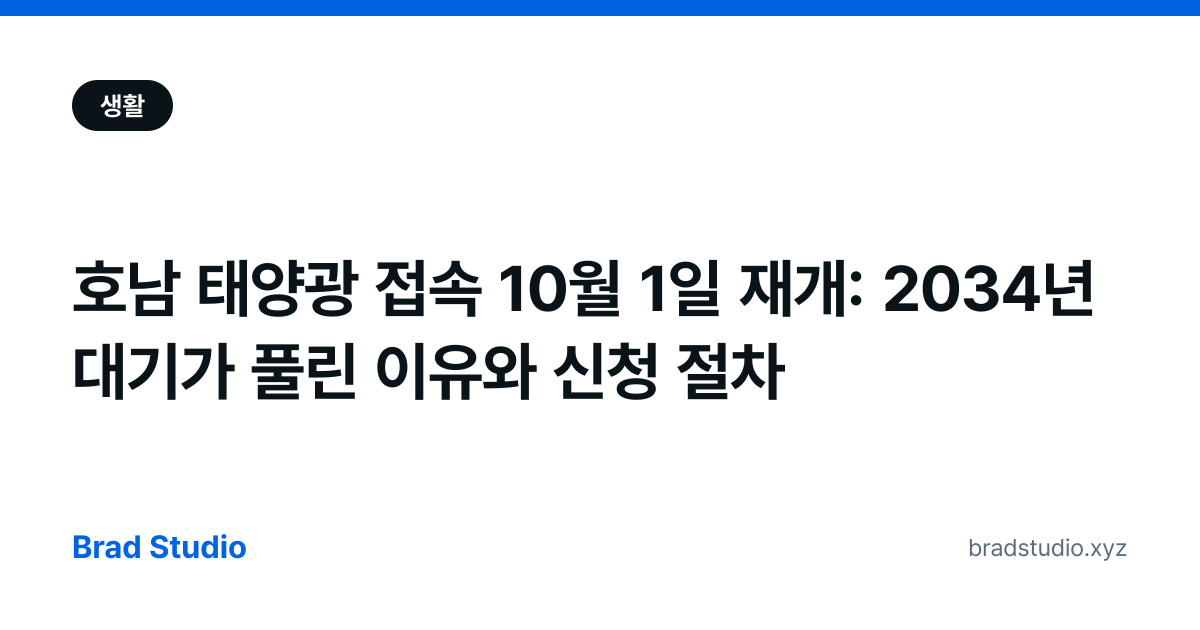
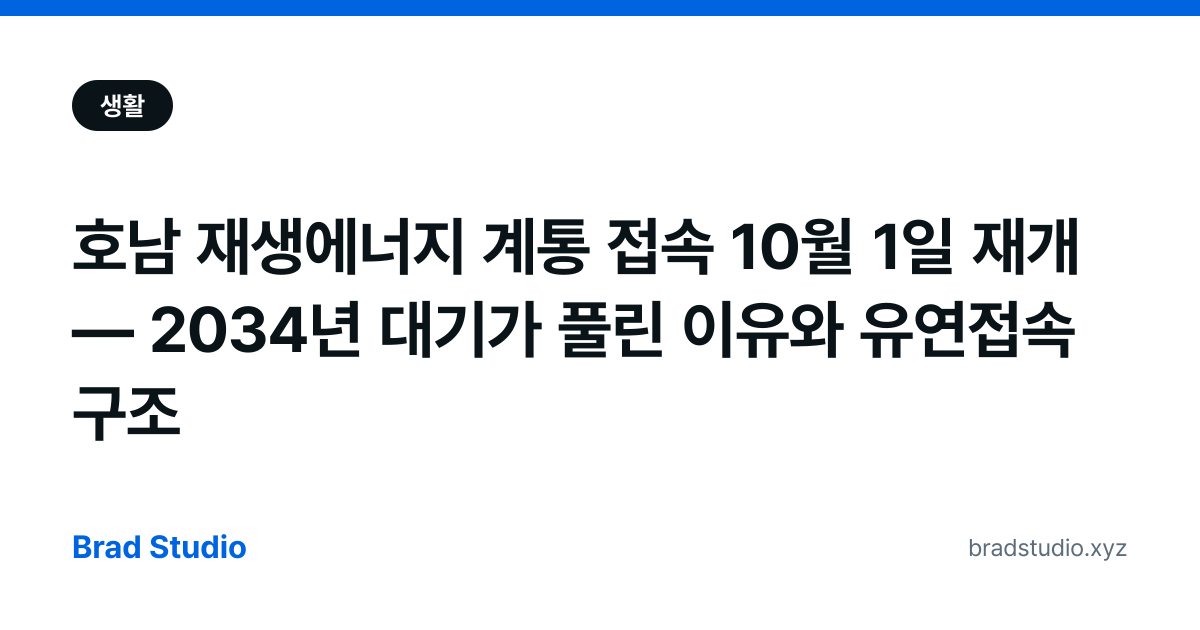
10/6 발행: 기록의 역사 3편(양피지), 호남 재생에너지 계통 접속 재개(초안 팩트체크 후 수정)
- 호남: 87곳 중 46곳, 유연접속 14→16MW·50→60MW(2.6GW), ESS 1.6GW, 신규 접수 2027년 1월 반영
  미확인 수치 삭제(41곳 2028~2030 단계 개방, ESS 4MW당 5.7MW, 전력거래소 접속 창구)
- 초안 보류: 미국 30년물 금리(고용 쇼크 이후 내용 낡음), 김도영 41홈런(9/29 기준, 최신 기록 미확인)

Claude-Session: https://claude.ai/code/session_016W68o6eYMen6oLnjrGLJi9

Changed region(s): [[0.0617, 0.3317, 0.925, 0.6937]]

diff --git a/src/content/blog/honam-solar-grid-access-2026.md b/src/content/blog/honam-solar-grid-access-2026.md
@@ -1,10 +1,10 @@
 ---
 contentId: "bs-20261006-001"
-title: '호남 태양광 접속 10월 1일 재개: 2034년 대기가 풀린 이유와 신청 절차'
-description: '2034년 이후까지 막혔던 호남 재생에너지 계통 접속이 2026년 10월 1일 재개됐습니다. 계통관리변전소 지정 해제 배경, 변전소 87곳 접속 가능 여부 일람, 유연접속 제도 신청 절차를 정리했습니다.'
+title: '호남 재생에너지 계통 접속 10월 1일 재개 — 2034년 대기가 풀린 이유와 유연접속 구조'
+description: '2034년 이후까지 막혔던 호남 재생에너지 계통 접속이 10월 1일 계통관리변전소 지정 해제로 다시 열렸습니다. 변전소 87곳 중 여유가 있는 46곳, 배전선로 한도 14→16MW·변압기 50→60MW로 늘리는 유연접속, ESS로 늘어나는 수용량과 신규 사업 접수 일정을 정리했습니다.'
 pubDate: 2026-10-06
 
-status: draft
+status: published
 
 category: living
 tags:
@@ -40,8 +40,11 @@ sources:
   - title: '호남 전략망 64GW로 늘린다 — 뉴스토마토'
     url: 'https://newstomato.com/ReadNews.aspx?no=1315112'
     accessedAt: 2026-10-06
-  - title: '기후에너지환경부 보도자료 — 전력망 확충 및 유연접속 시행'
-    url: 'https://www.mcee.go.kr'
+  - title: '막혔던 호남 재생에너지 접속 뚫린다…10월1일 계통관리변전소 해제 — 파이낸셜뉴스'
+    url: 'https://www.fnnews.com/news/202609291254473924'
+    accessedAt: 2026-10-06
+  - title: 'ESS 늘리고 재생e 유연접속 허용…호남 전력포화 내년부터 풀린다 — 머니투데이'
+    url: 'https://www.mt.co.kr/economy/2026/09/29/2026092912095174595'
     accessedAt: 2026-10-06
 
 internalLinks:
@@ -56,9 +59,9 @@ faq:
   - question: '계통관리변전소 지정이란 무엇이고, 왜 접속이 막혔나요?'
     answer: '계통관리변전소는 전력망 용량 초과가 우려되는 변전소에 정부가 신규 발전설비 접속을 제한하는 제도입니다. 호남은 태양광 보급 속도에 비해 송·배전망 확충이 더뎌 46개 변전소가 2034년 이후에야 접속이 가능하다는 통보를 받았습니다. 이번 해제는 망 증설 계획 확정과 유연접속 도입으로 용량 여유가 생겼다는 정부 판단에 따른 것입니다.'
   - question: '유연접속이란 무엇인가요?'
-    answer: '유연접속은 배전선로에 ESS(에너지저장장치)를 설치해 피크 시 전력 흡수·완충 기능을 추가하고, 그만큼 추가 발전설비를 계통에 연결할 수 있게 하는 방식입니다. 기존 송·배전망을 새로 짓지 않고도 선로 용량을 늘리는 효과가 있습니다. 배전선로 1곳에 ESS 4MW(20MWh)를 설치하면 태양광 5.7MW를 추가 연계할 수 있습니다.'
+    answer: '전력이 몰리는 일부 시간에 발전 출력을 조절하는 조건으로 선로 한도를 넘는 접속을 허용하는 방식입니다. 배전선로 태양광 한도는 14MW에서 16MW로, 변압기는 50MW에서 60MW로 높아지며, 정부는 이 방식으로 호남에서 태양광 2.6GW를 더 받을 수 있다고 봤습니다.'
   - question: '10월 1일 이후 호남에서 태양광 접속 신청을 바로 할 수 있나요?'
-    answer: '변전소 87곳 가운데 46곳은 즉시 신규 접속이 가능합니다. 나머지 41곳은 ESS 설치와 변전소 신설 일정에 맞춰 2028~2030년 단계적으로 접속이 열립니다. 신청은 한국전력 배전처 또는 전력거래소 계통접속 창구를 통해 진행하며, 구체적인 가능 변전소 목록은 기후에너지환경부 및 한전 공식 채널에서 확인할 수 있습니다.'
+    answer: '호남권 변전소 87곳 가운데 여유가 있는 46곳은 신규 사업이 비교적 빠르게 들어갈 수 있습니다. 신규 재생에너지 사업 접수는 접속 제도 개편을 거쳐 2027년 1월부터 재개될 예정이므로, 공고가 나오면 한전 지사와 기후에너지환경부 안내를 확인하세요.'
   - question: '2030년까지 호남 송전 용량이 얼마나 늘어나나요?'
     answer: '정부 계획상 호남 지역 송전 수용량은 현재 37GW에서 2030년까지 64GW로 확충됩니다. 배전 수용량도 18GW에서 30GW로 늘어납니다. 전국 기준으로는 송전 119GW → 171GW, 배전 84GW → 110GW로 확대할 계획입니다.'
 
@@ -68,9 +71,9 @@ seo:
 
 ## 결론부터: 2034년 대기가 풀렸다
 
-호남 지역 태양광 사업자들이 2034년 이후에야 받을 수 있다는 통보를 받았던 계통 접속이 2026년 10월 1일부터 다시 열렸다. 기후에너지환경부가 계통관리변전소 지정을 해제하고 유연접속 제도를 동시 시행하면서다.
+호남 지역 재생에너지 사업자들이 2034년 이후에야 가능하다는 통보를 받았던 계통 접속이 2026년 10월 1일 다시 열렸다. 기후에너지환경부가 호남권 계통관리변전소 지정을 해제하고 유연접속 제도를 함께 도입했다.
 
-지역 변전소 87곳 가운데 **46곳은 즉시 신규 접속 신청**이 가능하다. 나머지 41곳은 ESS 설치·변전소 신설 일정에 맞춰 2028~2030년 단계적으로 풀릴 예정이다.
+호남권 변전소 87곳 가운데 여유가 있는 **46곳**은 신규 사업이 비교적 빠르게 들어갈 수 있다. 다만 신규 재생에너지 사업 접수는 접속 제도 개편을 거쳐 **2027년 1월부터** 재개될 예정이라, 당장 신청서를 내는 단계는 아니다.
 
 ---
 
@@ -82,35 +85,23 @@ seo:
 
 **첫째, 망 확충 계획이 확정됐다.** 호남 지역 송전 수용량 목표가 37GW→64GW로 늘어났고, 배전도 18GW→30GW로 확충 계획이 굳어졌다. 전국 기준으로는 송전 119GW → 171GW, 배전 84GW → 110GW다.
 
-**둘째, 유연접속 제도가 도입됐다.** 배전선로에 ESS(에너지저장장치)를 설치해 기존 선로에서 더 많은 발전설비를 받아낼 수 있게 됐다. ESS 4MW(20MWh)를 배전선로 1곳에 설치하면 태양광 5.7MW를 추가 연계한다. 이 방식으로 호남에서 태양광 2.6GW를 추가 접속할 수 있다.
+**둘째, 유연접속 제도가 도입됐다.** 전력이 몰리는 일부 시간에 출력을 조절하는 조건으로 선로 한도를 넘어서는 접속을 허용하는 방식이다. 배전선로의 태양광 접속 한도는 14MW에서 16MW로, 변압기는 50MW에서 60MW로 높아진다. 정부는 이 방식으로 호남에서 태양광 2.6GW를 더 받을 수 있다고 봤다.
+
+**셋째, ESS(에너지저장장치)를 늘린다.** 포화된 변전소 등에 ESS를 설치해 호남에서 태양광 1.6GW, 전국 포화 지역 배전망에서 3GW를 2030년까지 추가 접속시키는 계획이다.
 
 ---
 
-## 변전소별 접속 가능 시기 요약
+## 사업자가 확인할 것
 
-| 구분 | 변전소 수 | 접속 가능 시기 |
-|---|---|---|
-| 즉시 개방 | 46곳 | 2026년 10월 1일 이후 신청 가능 |
-| 단계적 개방 | 41곳 | 2028~2030년 (ESS 설치·변전소 신설 후) |
-| 합계 | 87곳 | — |
+| 항목 | 내용 |
+|---|---|
+| 접속 여유 변전소 | 호남권 87곳 중 46곳 |
+| 유연접속 한도 | 배전선로 14→16MW, 변압기 50→60MW |
+| 추가 수용 (유연접속) | 호남 태양광 2.6GW |
+| 추가 수용 (ESS) | 호남 1.6GW, 전국 포화 지역 3GW (2030년까지) |
+| 신규 사업 접수 | 2027년 1월 재개 예정 |
 
-구체적인 변전소 목록과 신청 가능 여부는 한전 배전처 또는 기후에너지환경부 공식 채널에서 확인해야 한다.
-
----
-
-## 유연접속 제도 신청 절차
-
-기존 계통 접속 절차에서 유연접속 항목이 추가됐다.
-
-1. **사전 상담** — 한전 지역본부 배전처에 프로젝트 위치·규모 등록
-2. **유연접속 대상 여부 확인** — 해당 배전선로 ESS 연계 가능 여부 조회
-3. **접속 신청서 제출** — 설계 도서 포함
-4. **ESS 설치 협의** — ESS 소유·운영 주체, 비용 분담 조건 협의
-5. **접속 계약 체결** — 전력거래소와 계통접속 계약 완료 후 공사 착수
-
-ESS 소유·운영 비용 분담 조건은 사업 규모와 선로 상황에 따라 다르므로, 한전 배전처와 사전 협의가 필수다.
-
----
+변전소별 여유 용량과 신청 방법은 개편된 접속 제도 공고에서 확정된다. 사업 예정지가 있다면 지금은 해당 지역 한전 지사에 예정지 변전소가 46곳에 드는지, 유연접속 조건(출력 제한 시간)이 사업성에 어떤 영향을 주는지부터 확인하는 단계다.
 
 ## 2030년 재생에너지 100GW 목표와의 연결
 
@@ -118,13 +109,13 @@ ESS 소유·운영 비용 분담 조건은 사업 규모와 선로 상황에 따
 
 계통 접속이 막힌 상태에서는 설치 허가를 받더라도 전력망에 연결하지 못해 사실상 사업이 중단되는 경우가 잦았다. 이번 해제로 장기 대기 상태였던 사업들이 일부 재개될 것으로 예상된다.
 
-전기요금 누진 구간이나 전기 사용량 계산이 궁금하다면 [전기요금 누진제 완전 정복](/blog/electricity-progressive-tier-guide-2026/)을 참고할 수 있다.
+전기요금 누진 구간이나 전기 사용량 계산이 궁금하다면 [누진 구간별 전기요금표](/blog/electricity-progressive-tier-guide-2026/)을 참고할 수 있다.
 
 ---
 
 ## 마무리
 
 - 호남 계통관리변전소 지정이 2026년 10월 1일 해제됐다.
-- 변전소 87곳 중 46곳은 즉시 접속 신청 가능, 41곳은 2028~2030년 단계적 개방.
-- 유연접속(배전선로 ESS 설치)으로 태양광 2.6GW 추가 수용.
-- 접속 가능 여부와 신청 절차는 [기후에너지환경부](https://www.mcee.go.kr) 또는 한전 배전처에서 확인하라.
+- 변전소 87곳 중 여유가 있는 46곳부터 신규 사업 진입이 빨라진다.
+- 유연접속(선로 한도 상향)으로 2.6GW, ESS로 1.6GW를 호남에서 추가 수용한다.
+- 신규 사업 접수는 2027년 1월 재개 예정이다. 공고가 나오면 [기후에너지환경부](https://www.mcee.go.kr)와 한전 지사 안내를 확인하자.

diff --git a/src/content/blog/record-history-03-parchment.md b/src/content/blog/record-history-03-parchment.md
@@ -1,0 +1,108 @@
+---
+contentId: "bs-20261006-004"
+title: '종이 이전의 책을 만든 재료, 양피지는 왜 오래 사용되었을까'
+description: '동물 가죽을 얇게 펴 만든 양피지는 파피루스보다 비싸고 만들기 번거로웠지만 천 년 넘게 유럽의 책을 책임졌습니다. 석회에 담그고 틀에 당겨 말리는 제작 과정, 양면에 쓰고 접을 수 있어 가능해진 코덱스 형태의 책, 긁어내고 다시 쓴 팔림프세스트까지 정리했습니다. 메모와 기록 도구의 역사 3편.'
+pubDate: 2026-10-06
+thumbnail:
+  url: 'https://images.unsplash.com/photo-1602660187275-7275b639d7ea?crop=entropy&cs=tinysrgb&fit=max&fm=jpg&q=80&w=1080'
+  alt: '오래된 책 제본에 다시 쓰인 양피지 조각'
+  creditName: 'Boudewijn Huysmans'
+  creditUrl: 'https://unsplash.com/@boudewijn_huysmans'
+
+status: published
+
+category: history
+series:
+  id: record-history
+  order: 3
+tags:
+  - '기록의 역사'
+  - '양피지'
+  - '코덱스'
+  - '중세 필사본'
+
+primaryKeyword: '양피지'
+secondaryKeywords:
+  - '양피지 만드는 법'
+  - '양피지 파피루스 차이'
+  - '코덱스'
+  - '팔림프세스트'
+  - '중세 필사본'
+intent: informational
+funnelStage: awareness
+cluster: 'record-history'
+clusterRole: supporting
+
+evergreen: true
+author: 'Brad Studio'
+internalLinks:
+  - 'bs-20261005-002'
+  - 'bs-20261005-001'
+
+sources:
+  - title: 'Parchment — Encyclopaedia Britannica'
+    url: 'https://www.britannica.com/topic/parchment'
+    accessedAt: 2026-10-06
+  - title: 'Codex — Encyclopaedia Britannica'
+    url: 'https://www.britannica.com/topic/codex-manuscript-book'
+    accessedAt: 2026-10-06
+  - title: 'Palimpsest — Encyclopaedia Britannica'
+    url: 'https://www.britannica.com/topic/palimpsest'
+    accessedAt: 2026-10-06
+
+monetization:
+  methods:
+    - 'adsense'
+  affiliateDisclosure: false
+
+faq:
+  - question: '양피지는 꼭 양가죽으로만 만들었나요?'
+    answer: '아니다. 이름 때문에 양가죽만 떠올리기 쉽지만 염소, 송아지 가죽도 널리 쓰였다. 어린 송아지 가죽으로 만든 얇고 고운 것은 따로 벨럼(vellum)이라고 부르기도 한다. 지역마다 구하기 쉬운 동물 가죽을 썼다.'
+  - question: '양피지에 잘못 쓴 글자는 어떻게 고쳤나요?'
+    answer: '칼이나 돌로 표면을 살짝 긁어 잉크를 벗겨 낸 뒤 다시 썼다. 표면이 단단해 이런 수정이 가능했고, 한 권 전체를 긁어내고 새 내용을 쓰는 일도 있었다. 이렇게 재사용한 문서를 팔림프세스트라고 부른다.'
+  - question: '양피지와 가죽 공예용 가죽은 같은 건가요?'
+    answer: '다르다. 가죽 공예용 가죽은 무두질로 부드럽고 질기게 만든 것이고, 양피지는 무두질하지 않고 틀에 팽팽하게 당긴 채 말려 얇고 평평한 판으로 만든다. 물에 젖으면 다시 휘고 수축하는 성질이 남아 있는 것도 이 때문이다.'
+
+seo:
+  noindex: false
+---
+
+책장을 넘긴다는 동작은 너무 익숙해서 따로 생각해 볼 일이 없다. 앞뒤로 글이 적힌 종이 여러 장을 한쪽 끝에서 묶어 두면, 원하는 쪽을 바로 펼칠 수 있다. 두루마리를 처음부터 풀어야 했던 시대를 떠올리면 이 단순한 구조가 꽤 큰 변화였다는 것을 알 수 있다.
+
+이 변화를 받쳐 준 재료가 양피지다. 동물 가죽을 얇고 평평하게 만든 기록 재료로, 지중해 세계와 중세 유럽에서 천 년이 넘는 기간 동안 중요한 문서와 책을 담당했다. 만들기 번거롭고 값도 비쌌는데, 사람들은 왜 이 재료를 그렇게 오래 썼을까.
+
+## 파피루스가 자라지 않는 곳의 해법
+
+파피루스는 나일강 습지에서 자라는 식물로 만들었다. 이집트에서는 흔했지만, 그 밖의 지역은 수입에 기대야 했다. 습기에 약해 비가 잦은 유럽에서는 오래 보관하기도 어려웠다.
+
+동물 가죽은 사정이 달랐다. 가축을 기르는 곳이라면 어디서든 구할 수 있었다. 가죽에 글을 쓰는 방식 자체는 꽤 오래전부터 여러 지역에 있었던 것으로 알려져 있다. 양피지를 뜻하는 영어 parchment는 지금의 튀르키예 서부에 있던 고대 도시 페르가몬에서 이름이 왔다는 설명이 널리 퍼져 있다. 이 도시가 파피루스 수입이 막히자 가죽 가공 기술을 발전시켰다는 이야기도 전해지지만, 사실 여부를 확인하기 어려운 일화로 보는 시각이 많다. 이름의 유래와 별개로, 양피지는 파피루스를 구하기 어렵거나 오래 남겨야 하는 기록이 있는 곳에서 자연스럽게 자리를 넓혔다.
+
+## 가죽을 '종이'로 만드는 과정
+
+양피지는 가죽 공예용 가죽과 만드는 방식이 다르다. 일반적으로 알려진 과정은 이렇다.
+
+먼저 가죽을 석회를 푼 물에 며칠 담가 털과 지방이 잘 떨어지도록 한다. 건져 낸 가죽은 둥근 날의 칼로 양면을 긁어 털과 살점을 벗긴다. 그다음이 핵심이다. 깨끗해진 가죽을 나무 틀에 사방으로 팽팽하게 묶고, 당긴 상태 그대로 말린다. 마르는 동안 틀을 조이고 표면을 계속 긁어 두께를 고르게 만든다. 다 마르면 표면을 문질러 매끄럽게 다듬고, 필요한 크기로 잘라 쓴다.
+
+무두질을 하지 않고 당겨서 말리기 때문에, 가죽의 섬유가 한 방향으로 정리되며 얇고 단단한 판이 된다. 손이 많이 가는 작업이라 양피지는 귀한 물건이었다. 두꺼운 책 한 권을 만들려면 여러 마리의 가죽이 필요했고, 그만큼 책은 공동체가 오래 쓰는 재산에 가까웠다.
+
+## 접을 수 있어서 '책'이 되었다
+
+양피지가 파피루스와 가장 크게 달랐던 점은 내구성과 유연성이다. 양면 모두에 글을 쓸 수 있었고, 접어도 잘 갈라지지 않았다. 이 성질 덕분에 여러 장을 반으로 접어 겹치고 한쪽을 꿰매 묶는 형태, 곧 코덱스가 널리 쓰이게 되었다. 오늘날 우리가 아는 책의 원형이다.
+
+코덱스는 두루마리보다 실용적인 점이 많았다. 원하는 쪽을 바로 펼칠 수 있었고, 앞뒤를 오가며 내용을 비교하기 쉬웠다. 양면을 쓰니 같은 분량을 더 적은 재료로 담을 수 있었고, 책장에 세워 두거나 들고 다니기도 편했다. 코덱스 형태는 고대 말기를 거치며 두루마리를 점차 대신해 갔다.
+
+중세 유럽의 수도원에서는 필경사들이 양피지에 책을 손으로 베껴 썼다. 한 글자씩 옮겨 적는 작업이라 시간이 오래 걸렸지만, 그렇게 만든 필사본 상당수가 오늘날까지 남아 있다. 습기에 약한 파피루스와 달리 양피지는 유럽의 기후에서도 수백 년을 버텼다.
+
+## 지우고 다시 쓴 기록, 팔림프세스트
+
+양피지는 비쌌기 때문에 다시 쓰는 일도 흔했다. 더 이상 필요 없는 문서의 표면을 긁거나 씻어 잉크를 벗겨 낸 뒤, 그 위에 새 글을 썼다. 이렇게 재사용한 양피지를 팔림프세스트라고 부른다.
+
+지워진 글자는 완전히 사라지지 않는 경우가 많았다. 희미하게 남은 흔적을 현대에 특수 조명과 영상 기술로 읽어 내면서, 사라진 줄 알았던 고대 문헌이 되살아난 사례도 있다. 고대 그리스 수학자 아르키메데스의 저작이 기도서 아래에서 확인된 일이 대표적이다.
+
+다 쓴 기록을 지우고 같은 바탕을 다시 쓰는 모습은 지금도 익숙하다. 화이트보드를 지우고 회의 내용을 새로 적거나, 메모 앱의 오래된 노트를 지우고 새 노트를 만드는 일과 닮았다. 차이는 양피지에는 지운 흔적이 남았다는 점이다. 그 흔적 덕분에 기록의 층이 수백 년 뒤에 다시 읽혔다.
+
+## 마무리
+
+양피지는 파피루스를 구하기 어렵고 기후가 습한 지역에서 오래 남는 기록을 가능하게 했다. 양면에 쓰고 접을 수 있는 성질은 두루마리 대신 책장을 넘기는 코덱스를 만들었고, 비싼 값은 지우고 다시 쓰는 팔림프세스트를 낳았다.
+
+남은 문제는 값과 양이었다. 가축 가죽으로는 많은 사람이 쓸 만큼 기록 재료를 만들기 어려웠다. 비슷한 시기 동아시아에서는 식물 섬유를 물에 풀어 얇게 떠내는 전혀 다른 방법이 자리 잡고 있었다. 다음 편에서는 그 재료, 종이가 기록 방식을 어떻게 바꾸었는지 다룬다.

diff --git a/content-ops/keyword-queue.md b/content-ops/keyword-queue.md
@@ -8,6 +8,8 @@
 (비어 있음)
 
 ## 완료
+- (2026-10-06) 기록의 역사 3편 양피지 — bs-20261006-004 (record-history-03-parchment) [출처: 시리즈 기획]
+- (2026-10-06) 호남 재생에너지 계통 접속 재개 — bs-20261006-001 (honam-solar-grid-access-2026) [출처: 2026-10-w1-thu #14, 초안 팩트체크 후 수정]
 - (2026-10-06) 호남 태양광 접속 재개 — bs-20261006-001 (honam-solar-grid-access-2026) [출처: 2026-10-w1-thu #14]
 - (2026-10-06) 미국 30년물 금리 5.6% → 내 대출금리 경로 — bs-20261006-002 (us-treasury-yield-korea-loan-rate-2026) [출처: 2026-10-w1-thu #7]
 - (2026-10-06) 김도영 41홈런 KIA 기록 — bs-20261006-003 (kim-do-young-41-homers-kia-record-2026) [출처: 2026-10-w1-thu #10]
